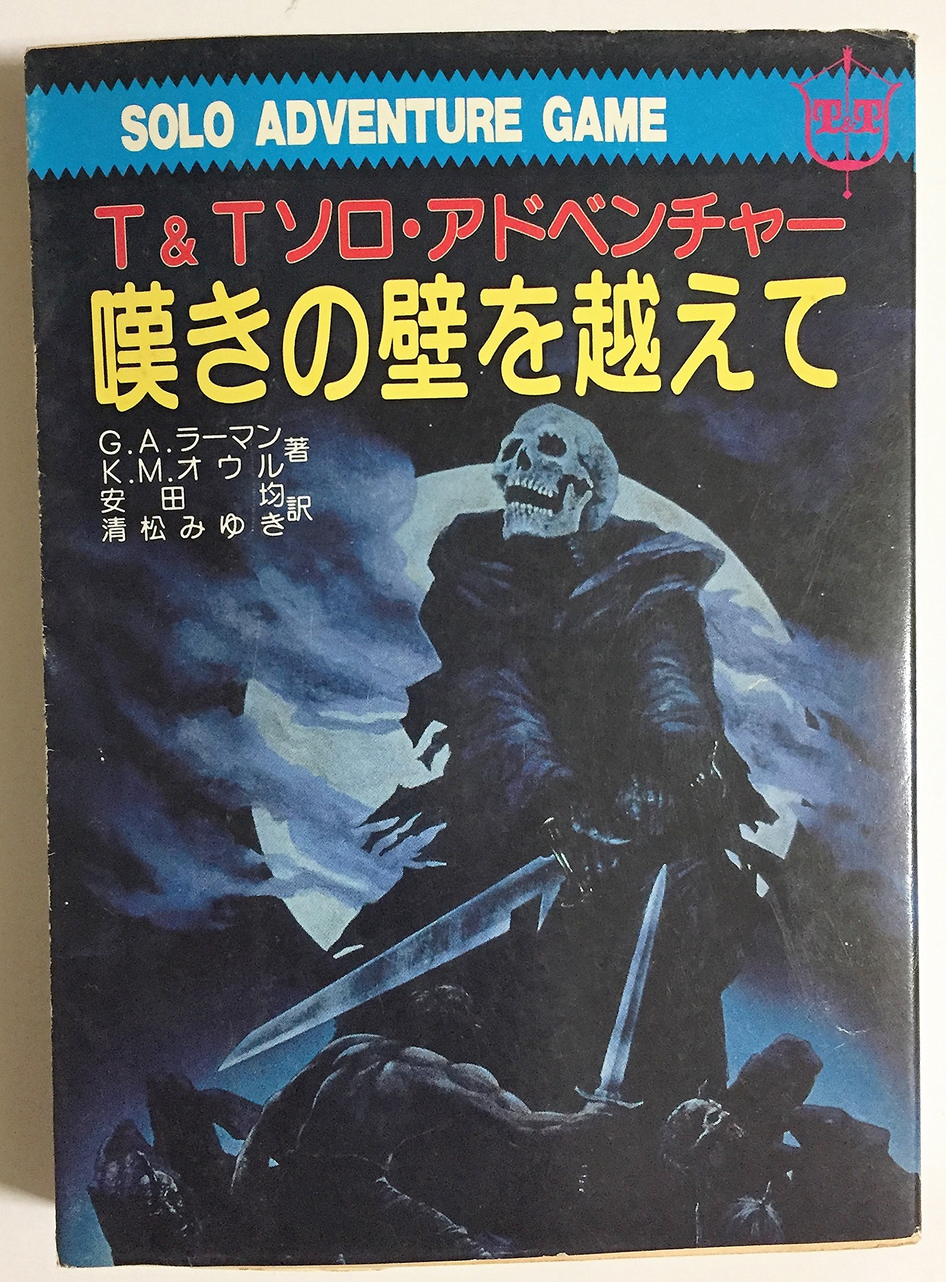
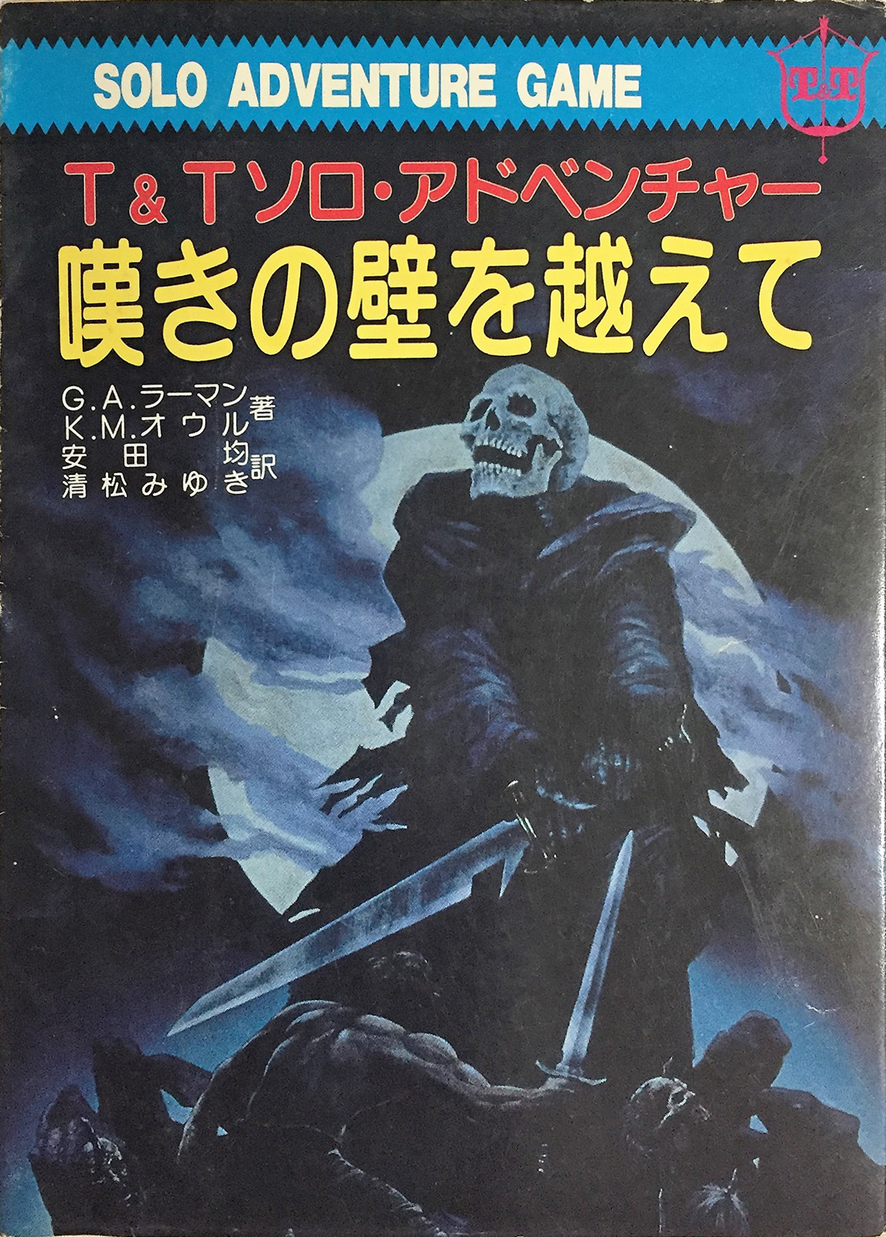
tunnels & trolls

diff --git a/tunnels-trolls/gallery.md b/tunnels-trolls/gallery.md
@@ -1,0 +1,18 @@
+<table><tr>
+<td valign="top"><img src="https://raw.githubusercontent.com/weatherspud/japanese-collectors-list/master/tunnels-trolls/tunnels_trolls.jpg" height="240"><br/><b>トンネルズ&トロールズ ファンタジーRPGルールブック</b><br/>Tunnels & Trolls<br/>1987</td>
+<td valign="top"><img src="https://raw.githubusercontent.com/weatherspud/japanese-collectors-list/master/tunnels-trolls/monsters_monsters.jpg" height="240"><br/><b>モンスター!モンスター!T&T RPGシナリオ・追加ルール</b><br/>Monsters! Monsters!<br/>1989</td>
+<td valign="top"><img src="https://raw.githubusercontent.com/weatherspud/japanese-collectors-list/master/tunnels-trolls/bear_dungeon.jpg" height="240"><br/><b>ベア・ダンジョン T&T RPGシナリオ</b><br/>Bear Dungeon<br/>1988</td>
+<td valign="top"><img src="https://raw.githubusercontent.com/weatherspud/japanese-collectors-list/master/tunnels-trolls/isle_of_darksmoke.jpg" height="240"><br/><b>魔術師の島 T&T RPGシナリオ</b><br/>Isle of Darksmoke<br/>1990</td>
+</tr><tr>
+<td valign="top"><img src="https://raw.githubusercontent.com/weatherspud/japanese-collectors-list/master/tunnels-trolls/mercenary_for_hire.jpg" height="240"><br/><b>傭兵剣士 T&Tソロ・アドベンチャー</b><br/>Mercenary for Hire<br/>1988</td>
+<td valign="top"><img src="https://raw.githubusercontent.com/weatherspud/japanese-collectors-list/master/tunnels-trolls/arena_of_kazan.jpg" height="240"><br/><b>カザンの闘技場 T&T ソロ・アドベンチャー</b><br/>Arena of Kazan<br/>1988</td>
+<td valign="top"><img src="https://raw.githubusercontent.com/weatherspud/japanese-collectors-list/master/tunnels-trolls/city_of_terrors.jpg" height="240"><br/><b>恐怖の街 T&T ソロ・アドベンチャー</b><br/>City of Terrors<br/>1988</td>
+<td valign="top"><img src="https://raw.githubusercontent.com/weatherspud/japanese-collectors-list/master/tunnels-trolls/deathtrap_equalizer.jpg" height="240"><br/><b>デストラップ T&T ソロ・アドベンチャー</b><br/>Deathtrap Equalizer<br/>1989</td>
+</tr><tr>
+<td valign="top"><img src="https://raw.githubusercontent.com/weatherspud/japanese-collectors-list/master/tunnels-trolls/beyond_the_silvered_pane.jpg" height="240"><br/><b>鏡の国のダンジョン T&T ソロ・アドベンチャー</b><br/>Beyond the Silvered Pane<br/>1989</td>
+<td valign="top"><img src="https://raw.githubusercontent.com/weatherspud/japanese-collectors-list/master/tunnels-trolls/overkill.jpg" height="240"><br/><b>オーバーキル城 T&T ソロ・アドベンチャー</b><br/>Overkill<br/>1990</td>
+<td valign="top"><img src="https://raw.githubusercontent.com/weatherspud/japanese-collectors-list/master/tunnels-trolls/gamesmen_of_kasar.jpg" height="240"><br/><b>ゲームマンの挑戦 T&T ソロ・アドベンチャー</b><br/>Gamesmen of Kasar<br/>1990</td>
+<td valign="top"><img src="https://raw.githubusercontent.com/weatherspud/japanese-collectors-list/master/tunnels-trolls/beyond_the_wailing_wall.jpg" height="240"><br/><b>嘆きの壁を越えて T&T ソロ・アドベンチャー</b><br/>Beyond the Wailing Wall<br/>1991</td>
+</tr><tr>
+<td valign="top"><img src="https://raw.githubusercontent.com/weatherspud/japanese-collectors-list/master/tunnels-trolls/hyper_tunnels_trolls.jpg" height="240"><br/><b>ハイパー・トンネルズ&トロールズ―ファンタジーRPGルールブック</b><br/>Hyper Tunnels & Trolls<br/>1991</td>
+</tr></table>
